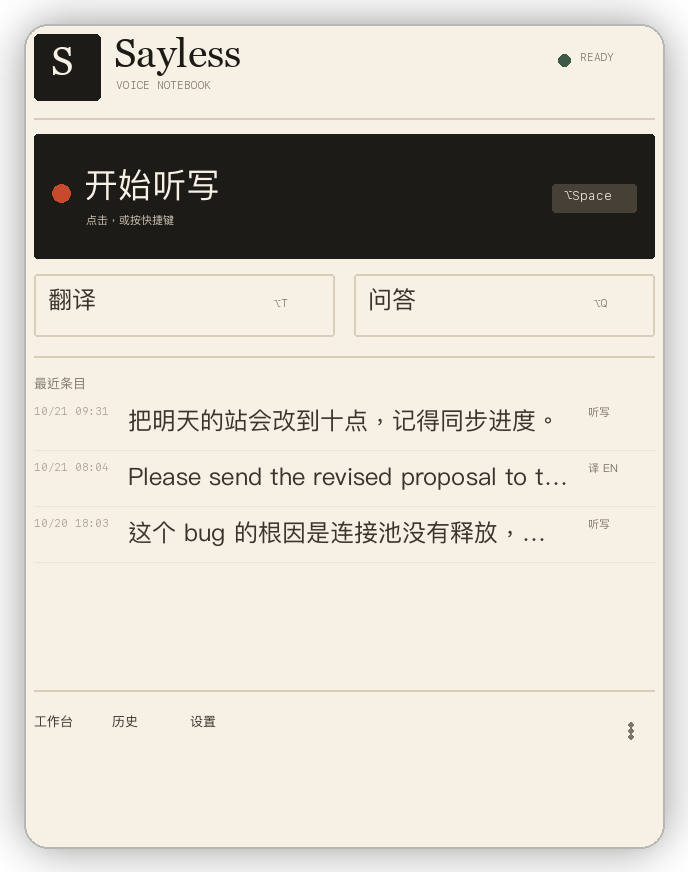
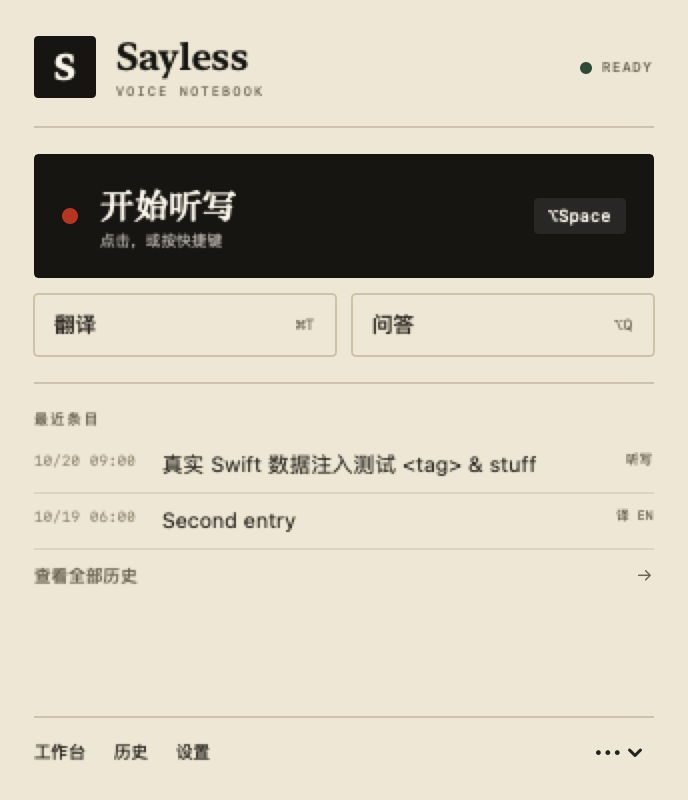
test: headless menu-panel render hook + CI UI smoke tests
- add SAYLESS_DUMP_PANEL to render the SwiftUI menu bar panel to PNG without opening the popover
- panel: add '查看全部历史' link, tighten popover height to 400
- CI: after building the app, dump hub tab 3 and menu panel, assert non-empty
- refresh docs menubar preview from the actual SwiftUI render; document both debug hooks
- verified: 74 tests, Swift typecheck/build, hub + panel smoke dumps

diff --git a/app/SaylessBar.swift b/app/SaylessBar.swift
@@ -1572,6 +1572,13 @@ struct MenuBarView: View {
                     Rectangle().fill(PaperPalette.line.opacity(0.55)).frame(height: 1)
                 }
             }
+            Button(action: onHistory) {
+                HStack {
+                    Text("查看全部历史").font(.system(size: 8.5, weight: .medium))
+                    Spacer()
+                    Image(systemName: "arrow.right").font(.system(size: 7, weight: .medium))
+                }.foregroundColor(PaperPalette.muted).padding(.top, 8)
+            }.buttonStyle(.plain)
 
             Spacer(minLength: 10)
 
@@ -1599,7 +1606,7 @@ struct MenuBarView: View {
             }
         }
         .padding(17)
-        .frame(width: 344, height: 432, alignment: .topLeading)
+        .frame(width: 344, height: 400, alignment: .topLeading)
         .background(PaperPalette.paper)
     }
 
@@ -1647,11 +1654,25 @@ final class MenuBarPopover: NSObject {
         guard let app, let button else { return }
         let view = makeView(app)
         let host = NSHostingController(rootView: view)
-        host.view.frame = NSRect(x: 0, y: 0, width: 344, height: 432)
+        host.view.frame = NSRect(x: 0, y: 0, width: 344, height: 400)
         popover.contentViewController = host
-        popover.contentSize = NSSize(width: 344, height: 432)
+        popover.contentSize = NSSize(width: 344, height: 400)
         NSApp.activate(ignoringOtherApps: true)
         popover.show(relativeTo: button.bounds, of: button, preferredEdge: .minY)
+    }
+
+    static func renderPreview(app: AppDelegate, to path: String) -> Bool {
+        let popover = MenuBarPopover(app: app, button: NSStatusBarButton(frame: NSRect(x: 0, y: 0, width: 24, height: 24)))
+        let view = popover.makeView(app)
+        let host = NSHostingView(rootView: view)
+        host.frame = NSRect(x: 0, y: 0, width: 344, height: 400)
+        host.appearance = NSAppearance(named: .aqua)
+        host.layoutSubtreeIfNeeded()
+        host.displayIfNeeded()
+        guard let rep = host.bitmapImageRepForCachingDisplay(in: host.bounds) else { return false }
+        host.cacheDisplay(in: host.bounds, to: rep)
+        guard let data = rep.representation(using: .png, properties: [:]) else { return false }
+        do { try data.write(to: URL(fileURLWithPath: path)); return true } catch { return false }
     }
 
     private func makeView(_ app: AppDelegate) -> MenuBarView {
@@ -2483,6 +2504,15 @@ final class AppDelegate: NSObject, NSApplicationDelegate {
 }
 
 let app = NSApplication.shared
+
+// 调试/验证口子：渲染自定义菜单栏面板为 PNG
+if let panelDump = ProcessInfo.processInfo.environment["SAYLESS_DUMP_PANEL"], !panelDump.isEmpty {
+    let preview = AppDelegate()
+    preview.loadAppConfig()
+    let ok = MenuBarPopover.renderPreview(app: preview, to: panelDump)
+    FileHandle.standardError.write(Data((ok ? "panel written: \(panelDump)\n" : "panel dump failed\n").utf8))
+    exit(ok ? 0 : 1)
+}
 
 // 调试口子：SAYLESS_DUMP_HUB=/tmp/hub.html SAYLESS_DUMP_HUB_TAB=0
 // 只写出注入数据后的 HTML 并退出，不创建菜单栏/窗口，便于 CI 或人工核对。
